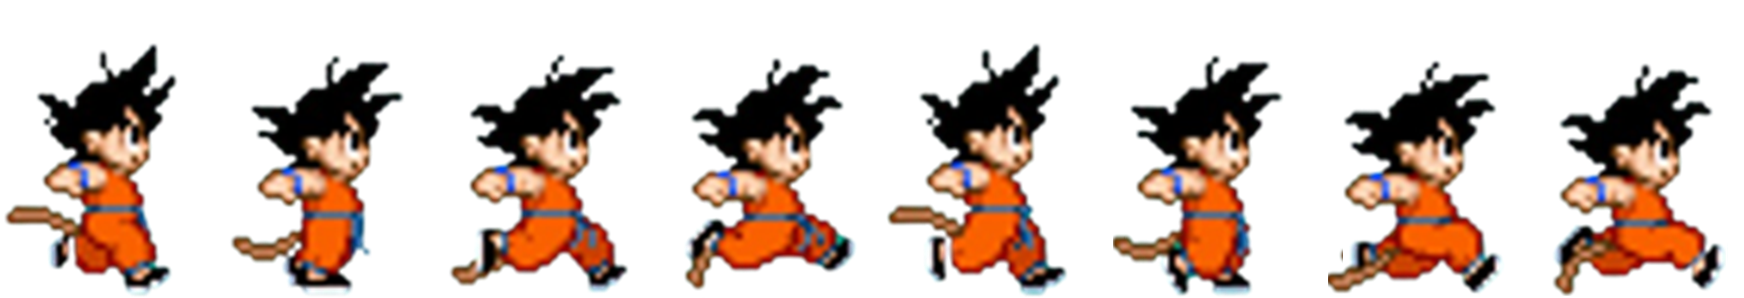
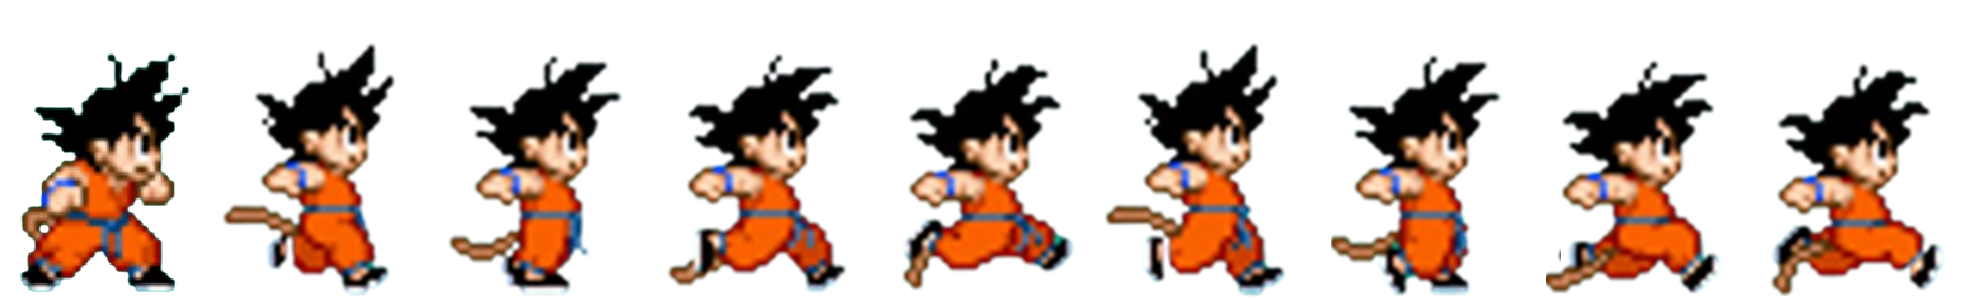
Inserción spriters para Goku del nivel2.Actualización spriter dGoku_caminando-png. Actualización clase pocion.h y pocion.cpp para que aparezcan pociones solo en la zona donde no se encuentra el robot.

diff --git a/Goku_videojuego/Goku_videojuego/pocion.cpp b/Goku_videojuego/Goku_videojuego/pocion.cpp
@@ -2,13 +2,15 @@
 #include <QRandomGenerator>
 #include <QGraphicsScene>
 
+// Constante fija para limitar el ancho horizontal
+const int LimiteAnchoX = 1036;
+
 // Constructor de la clase Pocion
-Pocion::Pocion(const QVector<QPixmap>& framesOriginales, int anchoVista, int fila, int columna, int columnas, QGraphicsItem* parent)
+Pocion::Pocion(const QVector<QPixmap>& framesOriginales, int fila, int columna, int columnas, QGraphicsItem* parent)
     : QGraphicsPixmapItem(parent),                // Establece el elemento gráfico como hijo del item padre
     indiceFrame(0),                               // Frame inicial para la animación
     fila(fila), columna(columna),                 // Posición lógica en la grilla - matriz (para organización de pociones)
-    columnasTotales(columnas),                    // Total de columnas en la grilla - matriz
-    anchoVista(anchoVista)                        // Ancho de la vista del nivel
+    columnasTotales(columnas)                     // Total de columnas en la grilla - matriz                    // Ancho de la vista del nivel
 {
     //Escalar y almacenar los frames de animación
     for (const QPixmap& original : framesOriginales) {
@@ -26,10 +28,10 @@ Pocion::Pocion(const QVector<QPixmap>& framesOriginales, int anchoVista, int fil
     int anchoSprite = frames[0].width();
 
     // Distruibuir las pociones en columnas con cierta aleatoriedad
-    int espacioX = anchoVista / columnasTotales;  // Espacio entre columnas
+    int espacioX = LimiteAnchoX / columnasTotales;  // Espacio entre columnas
     int baseX = columna * espacioX;               // Centro de la columna actual
     int minX = std::max(0, baseX - 15);           // Límite izquierdo con margen
-    int maxX = std::min(anchoVista - anchoSprite, baseX + 15); // Límite derecho con margen
+    int maxX = std::min(LimiteAnchoX - anchoSprite, baseX + 15); // Límite derecho con margen
 
     // Posición X aleatoria dentro de los márgenes de su columna
     int x = QRandomGenerator::global()->bounded(minX, maxX + 1);
@@ -68,10 +70,10 @@ void Pocion::moverYAnimar()
     if (scene() && y() > scene()->height()) {
         // Recalcula la posición horizontal como al inicio
         int anchoSprite = frames[0].width();
-        int espacioX = anchoVista / columnasTotales;
+        int espacioX = LimiteAnchoX / columnasTotales;
         int baseX = columna * espacioX;
         int minX = std::max(0, baseX - 15);
-        int maxX = std::min(anchoVista - anchoSprite, baseX + 15);
+        int maxX = std::min(LimiteAnchoX - anchoSprite, baseX + 15);
         int x = QRandomGenerator::global()->bounded(minX, maxX + 1);
 
         // Recalcula posición vertical con menos variación (más controlado)

diff --git a/Goku_videojuego/Goku_videojuego/nivel2.cpp b/Goku_videojuego/Goku_videojuego/nivel2.cpp
@@ -106,8 +106,7 @@ void Nivel2::agregarPociones() {
     }
 
     // Crea una sola poción inicial para que empiece el nivel
-    int anchoVista = vista->width();
-    Pocion* pocion = new Pocion(framesPocion, anchoVista, 0, 0, 1);
+    Pocion* pocion = new Pocion(framesPocion, 0, 0, 1);
     escena->addItem(pocion);
     listaPociones.push_back(pocion);
 }
@@ -124,9 +123,7 @@ void Nivel2::agregarPocionAleatoria() {
 
     int fila = QRandomGenerator::global()->bounded(0, 2);
     int columna = QRandomGenerator::global()->bounded(0, 7);
-    int anchoVista = vista->width();
-
-    Pocion* nuevaPocion = new Pocion(framesPocion, anchoVista, fila, columna, 7);
+    Pocion* nuevaPocion = new Pocion(framesPocion, fila, columna, 7);
     escena->addItem(nuevaPocion);
     listaPociones.push_back(nuevaPocion);
 }

diff --git a/Goku_videojuego/Goku_videojuego/pocion.h b/Goku_videojuego/Goku_videojuego/pocion.h
@@ -11,7 +11,7 @@ class Pocion : public QObject, public QGraphicsPixmapItem
     Q_OBJECT
 
 public:
-    Pocion(const QVector<QPixmap>& framesOriginales, int anchoVista, int fila, int columna, int columnas, QGraphicsItem* parent = nullptr);
+    Pocion(const QVector<QPixmap>& framesOriginales, int fila, int columna, int columnas, QGraphicsItem* parent = nullptr);
     ~Pocion();
 
 private slots:
@@ -25,7 +25,6 @@ private:
     int fila;
     int columna;
     int columnasTotales;
-    int anchoVista;
 };
 
 #endif // POCION_H
